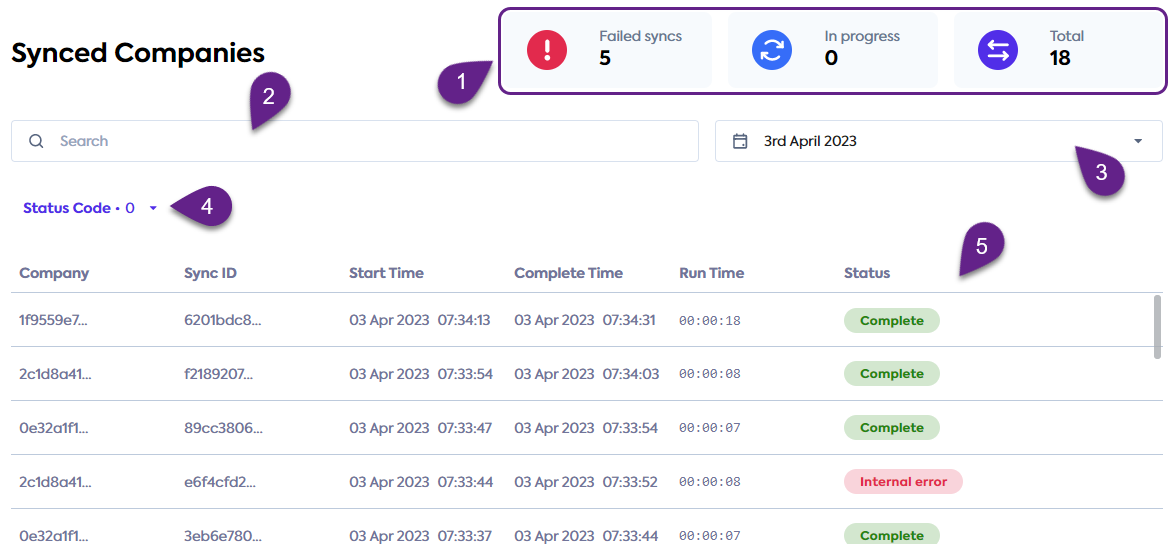
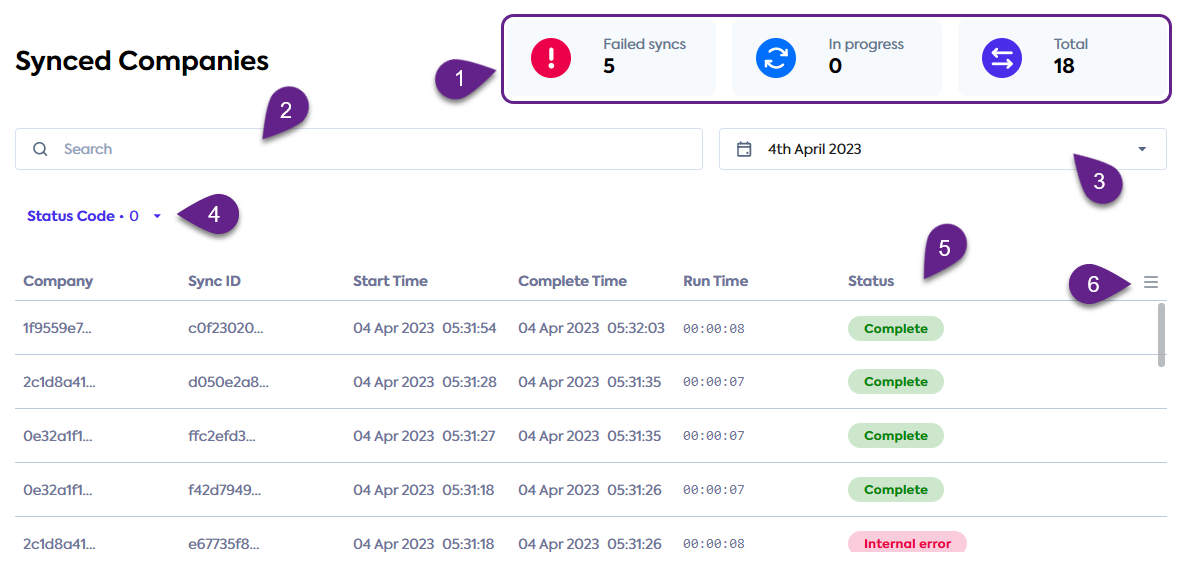
addressing comments

diff --git a/docs/sfc/sync-for-commerce-knowledge-base/monitoring-a-sync.md b/docs/sfc/sync-for-commerce-knowledge-base/monitoring-a-sync.md
@@ -12,7 +12,7 @@ Use the Sync Health page in the Codat Portal to monitor the status of your syncs
 In the <a href="https://app.codat.io/" target="_blank">Codat Portal</a>, click **Products** and select the relevant Sync product to view its Health page:
 
 - Check the **dashboard** (1) for a visual summary of sync totals.
-- Use the **search bar** (2) to narrow down the records by sync Id or company Id. 
+- Use the **search bar** (2) to narrow down the records by sync ID or company ID. 
 - Display the sync history for a specific period by indicating a **date range** (3). 
 - [Review the possible statuses](/sfc/error-documentation#status-codes) of the syncs and filter the records by their **status code** (4). 
 - Use the **menu** (6) to sort and amend the **sync history** (5) table as needed.
@@ -24,18 +24,18 @@ In the <a href="https://app.codat.io/" target="_blank">Codat Portal</a>, click *
 
 ## View detailed records
 
-To view more detailed information, click a record in your **sync history**.  The view provides sync start and end times, and sync source and target platforms. 
+To view more detailed information about a record, click on an item in your **sync history**. The information appears in the **Senc Details** window and provides sync start and end times, and sync source and target platforms. 
 
 It also displays client-friendly notes and error messages in case of sync failures. Refer to our [troubleshooting guide](/sfc/error-documentation#error-messages) for recommendations on how to resolve these. 
 
-You can also navigate to the Config tab to view and download the customer's sync configuration, which helps establish root causes for any errors that occured. 
+You can also navigate to the **Config** tab to view and download the customer's sync configuration, which helps establish root causes for any errors that occured. 
 
 <img
   src="/img/sync-for-commerce/0007-sync-details-ui.png"
   alt="Detailed view of a sync log entry with Summary, Config, and Push Items tabs"
 />
 
-:::warning View and retry push items
+:::caution View and retry push items
 
 At this time, it is possible to view and retry failed push items for **Sync for Expenses only**.
 
@@ -49,7 +49,7 @@ Here, you can view each item's status, search the items by their core ID or data
 
 ## Retry push items
 
-When on the **Push items** tab, you can also retry the push items in failed status. Click the **Retry failed items** button to trigger another attempt to push the data of all failed push items. The button is only enabled if there are failed items to retry.
+On the **Push items** tab, you can also retry the push items in failed status. Click the **Retry failed items** button to trigger another attempt to push the data of all failed push items. The button is only enabled if there are failed items to retry.
 
 <img
   src="/img/sync-for-commerce/0009-sync-push-items-ui.png"
